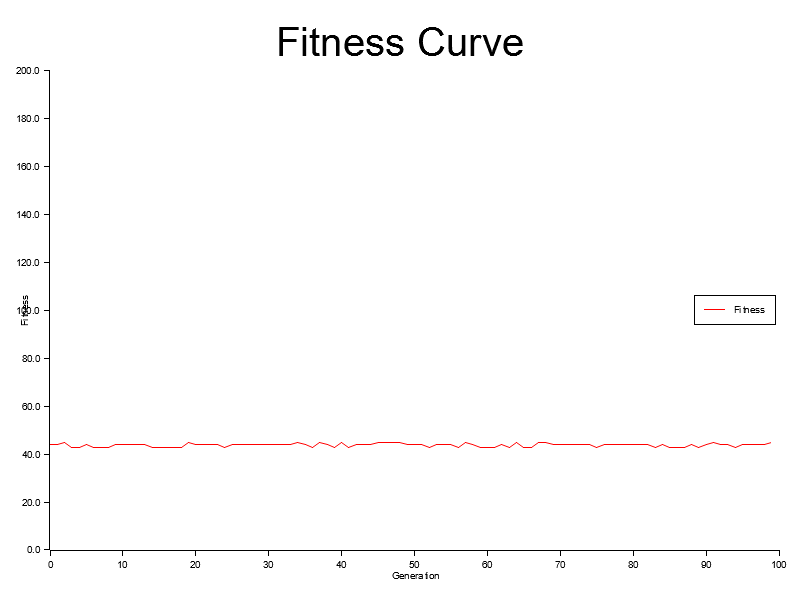
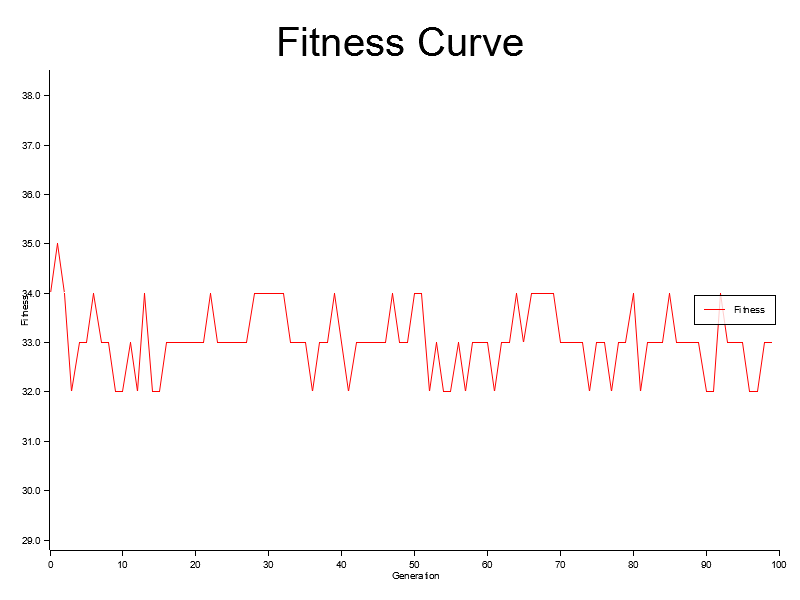
sudoku

diff --git a/src/population.rs b/src/population.rs
@@ -21,7 +21,7 @@ impl Default for Config{
         Config{
             num_individuals:10,
             num_genes:10,
-            range: -10.0..10.0,
+            range: -10.0..10.0,//only used in Initialization<Vec<Vec<f64>>>
             mutation_rate:0.1,
         }
     }
@@ -29,6 +29,7 @@ impl Default for Config{
 
 pub struct RandomInitialization;
 pub struct TSPInitialization;
+pub struct SudokuInitialization;
 impl Initialization<Vec<Vec<usize>>> for TSPInitialization{
     fn initialize(&self, config: Config) -> Vec<Vec<usize>> {
         let mut rng = thread_rng();
@@ -45,6 +46,18 @@ impl Initialization<Vec<Vec<f64>>> for RandomInitialization{
     fn initialize(&self, config: Config) -> Vec<Vec<f64>> {
         let mut rng = thread_rng();
         let individuals:Vec<Vec<f64>> = (0..config.num_individuals).map(|_| { (0..config.num_genes).map(|_| rng.gen_range(config.range.clone())).collect()}).collect();
+        individuals
+    }
+}
+impl Initialization<Vec<Vec<usize>>> for SudokuInitialization{
+    fn initialize(&self, config: Config) -> Vec<Vec<usize>> {
+        let mut rng = thread_rng();
+        let mut individuals = Vec::with_capacity(config.num_individuals);
+        for _ in 0..config.num_individuals{
+            let mut individual:Vec<usize> = (0..81).map(|_|rng.gen_range(0..10)).collect();
+            //individual.shuffle(&mut rng);
+            individuals.push(individual);
+        }
         individuals
     }
 }
@@ -289,8 +302,9 @@ impl Crossover<Vec<f64>> for Population{
         }
     }
 }
+/*
 impl Crossover<Vec<usize>> for Population {
-    fn crossover(&self, parent1_index: usize, parent2_index: usize) -> (Vec<usize>, Vec<usize>) {
+    fn crossover_old(&self, parent1_index: usize, parent2_index: usize) -> (Vec<usize>, Vec<usize>) {
         match self{
         Population::Usize(vec)=>{
             let size = vec[parent1_index].len();
@@ -304,18 +318,20 @@ impl Crossover<Vec<usize>> for Population {
                 child1[i] = Some(vec[parent1_index][i]);
                 child2[i] = Some(vec[parent2_index][i]);
             }
-            // Fill the rest of child1 from parent2 maintaining the order
+            // Fill the rest of child1 from parent2 maintaining the order (with loop back to start of vector)
             let mut current_index1 = (end + 1) % size;
             for &gene in vec[parent2_index].iter() {
-                if !child1.contains(&Some(gene)) {
+//                if !child1.contains(&Some(gene)) {
+                if child1[current_index1].is_none(){
                     child1[current_index1] = Some(gene);
                     current_index1 = (current_index1 + 1) % size;
                 }
             }
-            // Fill the rest of child2 from parent1 maintaining the order
+            // Fill the rest of child2 from parent1 maintaining the order (with loop back to start of vector)
             let mut current_index2 = (end + 1) % size;
             for &gene in vec[parent1_index].iter() {
-                if !child2.contains(&Some(gene)) {
+//                if !child2.contains(&Some(gene)) {
+                if child2[current_index2].is_none(){
                     child2[current_index2] = Some(gene);
                     current_index2 = (current_index2 + 1) % size;
                 }
@@ -326,6 +342,64 @@ impl Crossover<Vec<usize>> for Population {
         }
     }
 }
+*/
+use std::collections::HashMap;
+
+impl Crossover<Vec<usize>> for Population {
+    fn crossover(&self, parent1_index: usize, parent2_index: usize) -> (Vec<usize>, Vec<usize>) {
+        match self {
+            Population::Usize(vec) => {
+                let size = vec[parent1_index].len();
+                let mut child1 = vec![None; size];
+                let mut child2 = vec![None; size];
+                let mut rng = rand::thread_rng();
+                let start = rng.gen_range(0..size);
+                let end = rng.gen_range(start..size);
+
+                // Crossover Section
+                for i in start..=end {
+                    child1[i] = Some(vec[parent1_index][i]);
+                    child2[i] = Some(vec[parent2_index][i]);
+                }
+
+                // Create frequency maps for tracking duplicates
+                let mut freq_map_child1 = HashMap::new();
+                let mut freq_map_child2 = HashMap::new();
+
+                let mut current_index1 = (end + 1) % size;
+                let mut current_index2 = (end + 1) % size;
+
+                for &gene in &vec[parent2_index] {
+                    let count_child1 = freq_map_child1.entry(gene).or_insert(0);
+                    if !child1[current_index1].is_some() && *count_child1 < count_occurrences(gene, &vec[parent2_index]) {
+                        child1[current_index1] = Some(gene);
+                        *count_child1 += 1;
+                        current_index1 = (current_index1 + 1) % size;
+                    }
+                }
+
+                for &gene in &vec[parent1_index] {
+                    let count_child2 = freq_map_child2.entry(gene).or_insert(0);
+                    if !child2[current_index2].is_some() && *count_child2 < count_occurrences(gene, &vec[parent1_index]) {
+                        child2[current_index2] = Some(gene);
+                        *count_child2 += 1;
+                        current_index2 = (current_index2 + 1) % size;
+                    }
+                }
+
+                (child1.into_iter().map(|x| x.unwrap()).collect(), child2.into_iter().map(|x| x.unwrap()).collect())
+            }
+            _ => unimplemented!(),
+        }
+    }
+}
+
+// Helper function to count occurrences of a value
+fn count_occurrences(value: usize, vec: &Vec<usize>) -> usize {
+    vec.iter().filter(|&&x| x == value).count()
+}
+
+
 pub trait GetPopulation<T>{
     fn get_individual(&self, index:usize)->Option<Vec<T>>;
 }

diff --git a/examples/sudoku.rs b/examples/sudoku.rs
@@ -1,0 +1,58 @@
+use rs_genetics::plot::draw_fitness;
+use rs_genetics::population::{Config, GA, InitializationStrategy, TSPInitialization, GetPopulation, Population, SudokuInitialization};
+fn main() {
+    fn calculate_fitness(weights:Population) -> f64 {
+        match weights {
+            Population::Usize(vec)=>{
+                let mut score = 0.0;
+                // Check rows
+                for row in 0..9 {
+                    let start = row * 9;
+                    let unique_digits: std::collections::HashSet<_> =
+                        vec[0][start..start + 9].iter().cloned().collect();
+                    score += unique_digits.len() as f64;
+                }
+                // Check columns
+                for col in 0..9 {
+                    let unique_digits: std::collections::HashSet<_> =
+                        (0..9).map(|row| vec[0][row * 9 + col]).collect();
+                    score += unique_digits.len() as f64;
+                }
+                // Check subgrids
+                for subgrid_row in (0..9).step_by(3) {
+                    for subgrid_col in (0..9).step_by(3) {
+                        let mut unique_digits = std::collections::HashSet::new();
+                        for i in 0..3 {
+                            for j in 0..3 {
+                                unique_digits.insert(vec[0][(subgrid_row + i) * 9 + subgrid_col + j]);
+                            }
+                        }
+                        score += unique_digits.len() as f64;
+                    }
+                }
+                // Penalize invalid numbers (outside 1-9)
+                for &value in vec[0].iter() {
+                    if value < 1 || value > 9 {
+                        score -= 5.0; // Arbitrary penalty
+                    }
+                }
+                // Add bonus for completeness
+                let filled_cells = vec[0].iter().filter(|&&value| value != 0).count();
+                score += filled_cells as f64 / 81.0; // Fraction of cells filled
+                score
+            }
+            _ => panic!("Expected Population::usize")
+        }
+    }
+    let init_strategy = InitializationStrategy::Usize(Box::new(SudokuInitialization));
+    let mut config = Config::default();
+    config.num_individuals=100;
+    config.num_genes = 81;
+    let mut ga = GA::new(init_strategy, calculate_fitness, config);
+    ga.inspect();
+    //ga.evaluate();
+    let hist = ga.evolve(100);
+    let solution:Vec<usize> = ga.population.get_individual(0).unwrap();
+    println!("Solution = {:?}",solution);
+    draw_fitness(hist, "fitness_curve.png");
+}

diff --git a/src/plot.rs b/src/plot.rs
@@ -1,5 +1,6 @@
 use std::env;
 use plotters::prelude::*;
+use rand_distr::num_traits::signum;
 
 ///function to draw a given fitness curve passed as an input parameter
 pub fn draw_fitness(fitness_curve:Vec<f64>, filename:&str) {
@@ -9,13 +10,17 @@ pub fn draw_fitness(fitness_curve:Vec<f64>, filename:&str) {
         .into_drawing_area();
     root_area.fill(&WHITE).unwrap();
 
+    let chart_max = fitness_curve.clone().into_iter().reduce(f64::max).map(|max| if signum(max)>0. {max*1.1}else{max*0.9}).unwrap();
+    let chart_min = fitness_curve.clone().into_iter().reduce(f64::min).map(|min| if signum(min)>0. {min*0.9}else{min*1.1}).unwrap();
+
+
     // Define the chart
     let mut chart = ChartBuilder::on(&root_area)
         .caption("Fitness Curve", ("sans-serif", 50).into_font())
         .margin(20)
         .x_label_area_size(30)
         .y_label_area_size(30)
-        .build_cartesian_2d(0..fitness_curve.len(), 0.0..200.0)
+        .build_cartesian_2d(0..fitness_curve.len(), chart_min..chart_max)
         .unwrap();
 
     // Configure the chart

diff --git a/examples/tsp.rs b/examples/tsp.rs
@@ -2,7 +2,7 @@ use rs_genetics::plot::draw_fitness;
 use rs_genetics::population::{Config, GA, GetPopulation, InitializationStrategy, Population, TSPInitialization};
 
 fn main() {
-    struct City{x:f64,y:f64,};
+    struct City{x:f64,y:f64,}
     fn distance_(city1: &City, city2: &City) -> f64 {
         ((city1.x - city2.x).powi(2) + (city1.y - city2.y).powi(2)).sqrt()
     }

diff --git a/examples/n_queens.rs b/examples/n_queens.rs
@@ -23,7 +23,7 @@ fn main() {
             _ => panic!("Expected Population::usize")
         }
     }
-    let num_queens = 10;
+    let num_queens = 9;
     let init_strategy = InitializationStrategy::Usize(Box::new(TSPInitialization));
     let mut config = Config::default();
     config.num_individuals=100;
